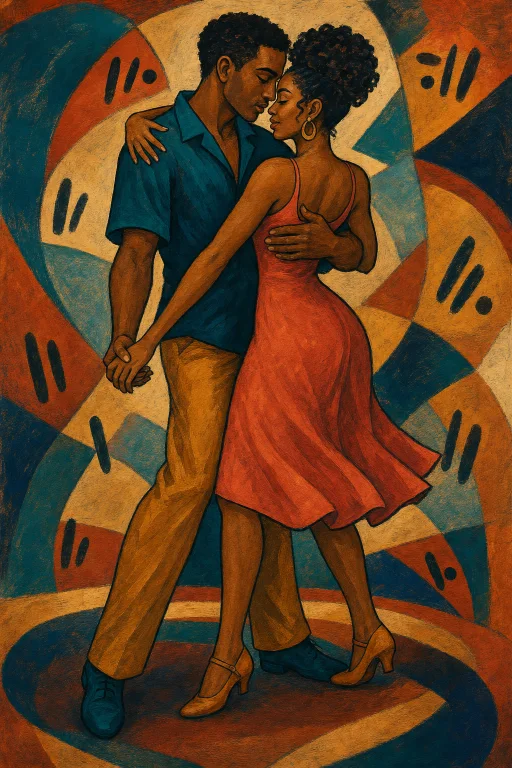
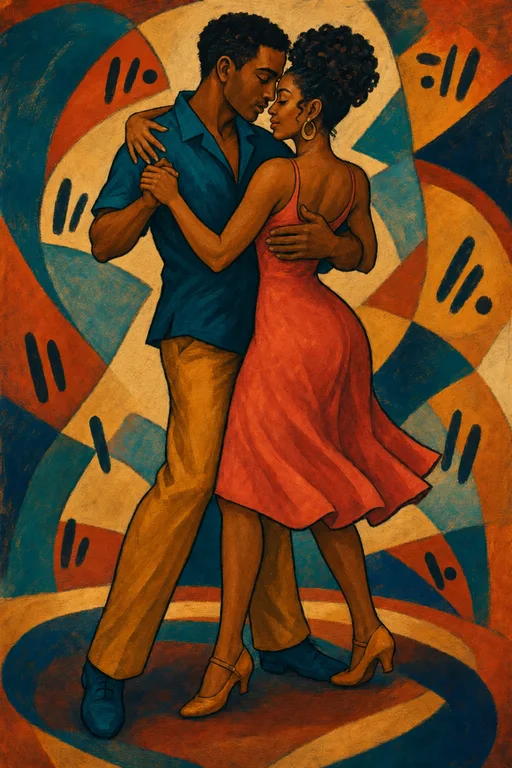
Fix Follow right arm in Closed Position artwork (#20)

diff --git a/tasks/done.md b/tasks/done.md
@@ -55,3 +55,4 @@
 - [x] Wrap up the UI/UX improvement branch from the 2026-10-16 handoff: reviewed the five commits against master on standards and spec; fixed all three behavior findings with red-then-green tests at the existing seams (result-screen card details make the result inert, closing a signal returns focus to its inline button or surviving hand card, and blocked follow-up cards explain their limits or the Move's starting Position); follow-up review found no remaining behavior findings or hard standards violations, with two optional duplication cleanups deferred; final verification passed 91 unit tests, 47 desktop/mobile browser tests with one intentional skip, typechecking, lint, formatting, production build, artwork checks, and the bundle gate; the handoff's remaining layout work stays deferred
 - [x] Automate production deployment from successful default-branch GitHub Actions runs (2026-10-16): merged PR #16 with exact-build artifacts, a master-only production environment, host-key-pinned restricted SSH, unprivileged preparation and metadata validation, active-room guard rechecks, verified backups, atomic activation, schema-aware rollback, and public health/commit checks; Actions run 38994330197 deployed d6e3b9bd4716f021c2bbbbd32c080985823dac82 to clave.dance, including PR #15; 91 unit tests, packaging/security regression fixtures, ShellCheck, actionlint, typechecking, lint, and build passed; verified the live browser UI, a complete two-device test game, partner presence, exact-state reconnect, no remaining active test room, and the pre-deployment backup's integrity; no force override or live-database replacement was used
 - [x] Add a Flourish to the Beginner supply (issue #19): made Hand Twist a $1 Beginner lesson, moved its two copies out of the Intermediate deck, synchronized the card list/rules/plan, and covered both players' purchases through engine snapshots
+- [x] Fix the Follow's right arm in the Closed Position artwork (#20): bend the elbow into a raised joined handhold, preserve the established card-art style and 512×768 WebP contract, and record the exact edit prompt

diff --git a/docs/art/card-art-direction.md b/docs/art/card-art-direction.md
@@ -19,6 +19,15 @@ The full-resolution working renders are intentionally excluded from Git. Deliver
 
 - Web: `packages/client/public/card-art/<card-id>.webp`, 512×768, quality 84.
 
+On 2026-10-19, issue #20 corrected `pos_002` with the built-in imagegen edit
+tool. [closed-position-arm-edit-prompt.txt](closed-position-arm-edit-prompt.txt)
+records the exact prompt. The Follow's right elbow now bends into a raised
+handhold with the Lead's left hand, replacing the straight downward arm. The
+selected 1024×1536 PNG was resized with Pillow's `Image.Resampling.LANCZOS` to
+512×768 and saved as WebP at quality 84. Visual inspection at delivery size
+confirmed the arm pathway and joined hands, full-body framing, and established
+palette and texture; `npm run check:art` validates the delivery asset contract.
+
 The later `mov_013` Closed-entry Cross Body Lead split deliberately reuses the
 foundational `mov_005` composition for now: both cards depict the same traveling
 figure, while their names and position tags distinguish the starting handhold. The
